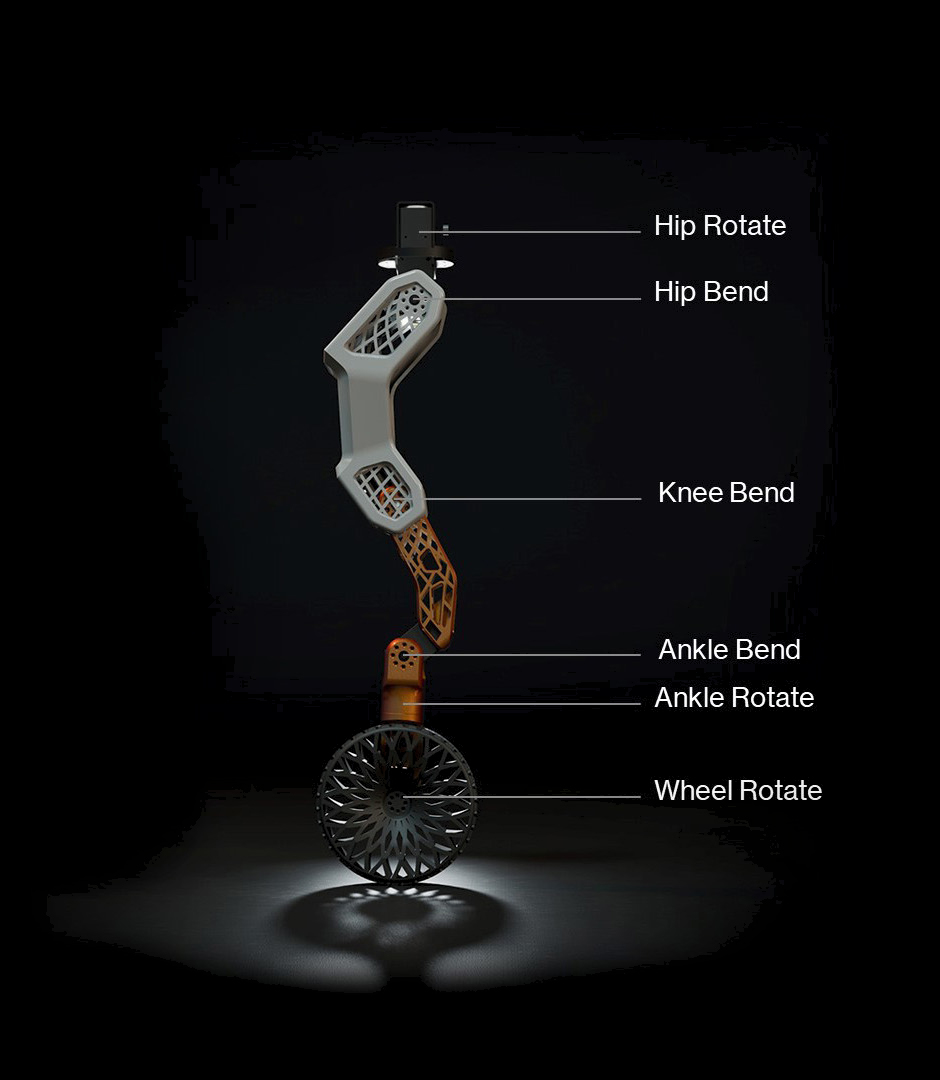
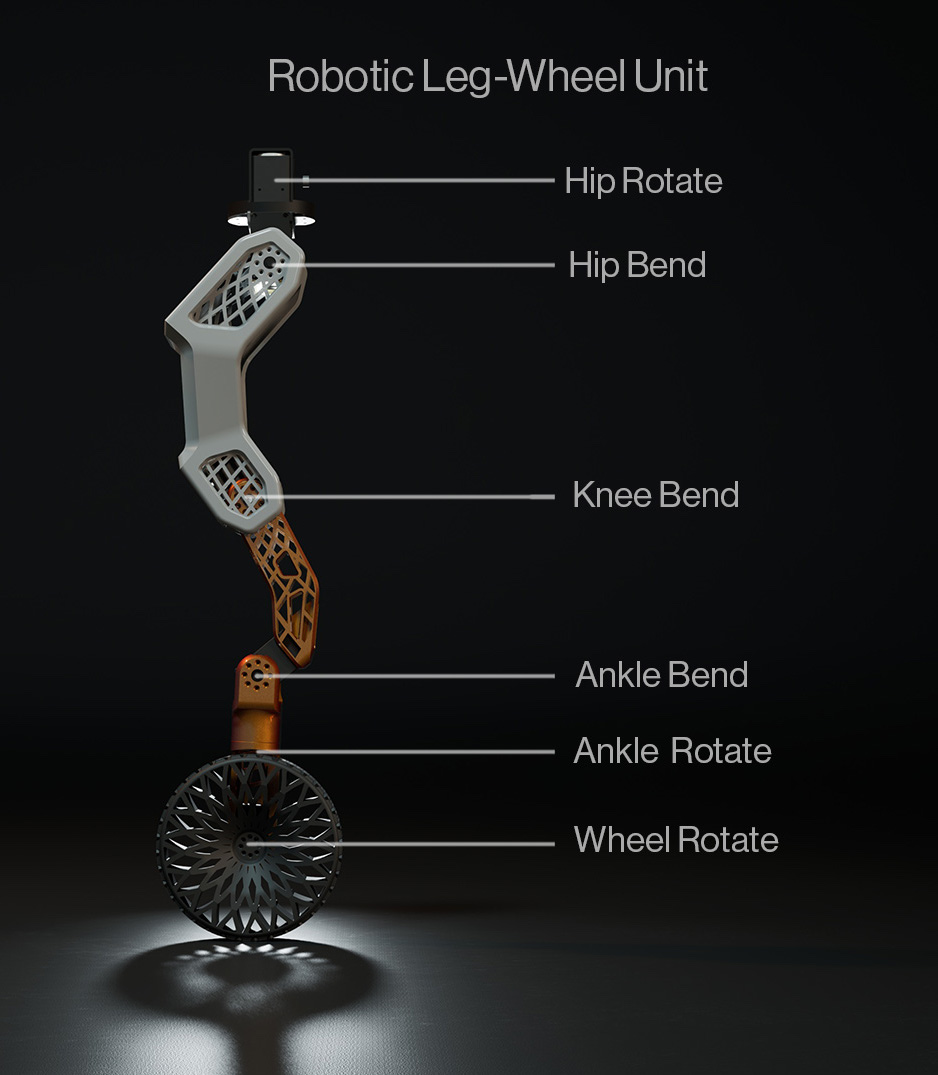
hyundai latest updates

diff --git a/hyundai.html b/hyundai.html
@@ -118,8 +118,8 @@
 			    <div style="grid-column-end: span 5;align-self: start;" class="text-block bottom-left slide-up">
 				Walking in mammalian mode provides additional height for clearing obstacles and a greater range of vertical leg motion, useful for climbing. 
 				</div>
-				 <div style="padding-left:1.04vw;grid-column-end: span 5;align-self: start;" class="text-block bottom-right slide-up">
-				By contrast, the wide gait of the reptilian walking mode provides increased stability and a lower center of gravity, ideal for uneven terrain.
+				 <div style="padding-left:1.04vw;grid-column-end: span 6;align-self: start;" class="text-block bottom-right slide-up">
+				By contrast, the wide gait of the reptilian walking<br> mode provides increased stability and a lower <br>center of gravity, ideal for uneven terrain.
 				</div>
 			</div>
 	
@@ -138,11 +138,11 @@
 					<source src="assets/hyundai/prototype2.mp4" type="video/mp4">
 
 				</video>
-				<div style="position: relative;bottom:9vw" class="text-block bottom-left slide-up">
-				    Without muscles, the movements of each leg depend on heavy, high-torque electric motors in each joint. 
-					Striking the right balance requires subtracting mass from the supports. Just like bones, these supports must be both strong and light. 
+				<div style="position: relative;grid-column-end: span 8;" class="text-block bottom-left slide-up">
+				    Without muscles, the movements of each leg depend on heavy, <br>high-torque electric motors in each joint.<br> 
+					Striking the right balance requires subtracting mass from the supports.<br>Just like bones, these supports must be both strong and light. 
 				</div>
-				<span style="z-index:2;grid-column-start: 7;grid-column-end: span 5;align-self: start;" class="caption">Robot Leg Wheel Unit</span>
+				
 				<img id='leg-callout' src="assets/hyundai/robotic_leg.jpg"/>
 			</div>
 	
@@ -154,13 +154,13 @@
 				<div class="interactive-block left">
 					<img class="interactive" id="lattice2" src="assets/hyundai/lattice/new/f48.jpg"><br>
 					 <input type="range" min="1" max="100" value="50" class="slider" id="lattice-slider" oninput="lattice2(this.value)">
-					 <span class="caption">Slide to rotate model</span>
+					 <span class="caption">Slide to rotate model<br><br></span>
 				</div>
 				
-			<div style="grid-column-end: span 6;"><img style="width: 88%;display: block;margin: 0 auto;"  src="assets/hyundai/truss.jpg"><br><span style="position: relative; top:-3vw;" class="caption">Michell Truss</span></div>
+			<div style="grid-column-end: span 6;"><img style="width: 100%;display: block;margin: 0 auto;"  src="assets/hyundai/truss.jpg"><br><span style="position: relative; top:0vw;" class="caption">Michell Truss</span></div>
 				
 				<div style="grid-column-end: span 6;align-self: start;" class="text-block bottom-left slide-up">
-				To reduce the weight of the leg while maximizing its strength, designers used AI-powered generative design tools to create, test, and evolve hundreds of potential designs in minutes.
+				To reduce the weight of the leg while maximizing <br>its strength, designers used AI-powered generative design tools to create, test, and evolve hundreds of potential designs in minutes.
 				</div>
 				 <div style="padding-left:1.04vw;grid-column-end: span 5;align-self: start;" class="text-block bottom-right slide-up">
 				In this case, the software generated these curved lattices of material following a mathematical algorithm called a Michell Truss.
@@ -179,8 +179,8 @@
 				<source src="assets/hyundai/prototype4.mp4" type="video/mp4">
 			</video>
 			<div style="z-index: 1;position: relative;" class="grid">
-			<div class="text-block padding bottom-left slide-up">
-				From these generated solutions, designers consider the trade-offs of strength, weight, cost, manufacturing complexity and sustainability. 
+			<div style="grid-column-end: 8;" class="text-block padding bottom-left slide-up">
+				From these generated solutions, designers consider the<br> trade-offs of strength, weight, cost, manufacturing <br>complexity and sustainability.<br>
 				A handful of options are selected and then prototyped using a mix of experimental materials and processes.
 			</div></div>
 		</section>

diff --git a/system.css b/system.css
@@ -45,10 +45,10 @@
 	grid-column-end: span 6;
 }
 #leg-callout{
-	grid-column-start: 7;
+	grid-column-start: 8;
 	align-self: start;
 	grid-row-start: 1;
-	grid-column-end: span 5;
+	grid-column-end: span 4;
 }
 .pose span{
 	text-align: center;
